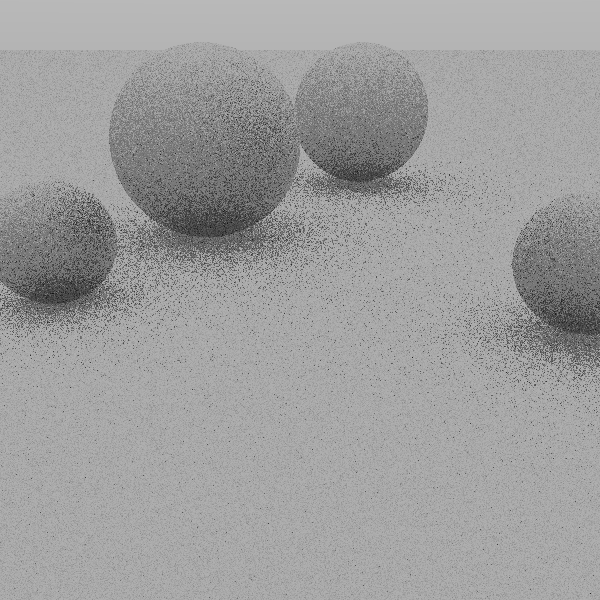
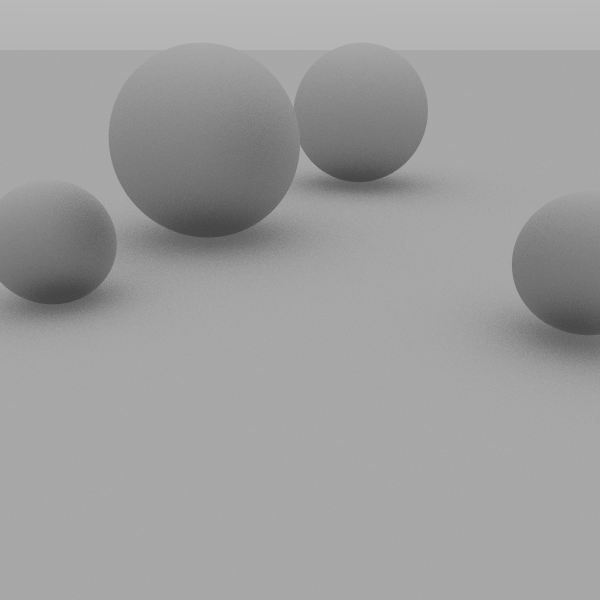
added new camera and new shading, but shading needs rework.

Changed region(s): [[0.0, 0.09, 0.78, 0.57], [0.75, 0.33, 1.0, 0.66]]

diff --git a/src/core/Main.java b/src/core/Main.java
@@ -2,6 +2,7 @@ package core;
 
 import core.gui.GUI;
 import core.world.camera.Camera;
+import core.world.light.Light;
 import core.world.math.VecMath;
 import core.world.ray.Ray;
 import core.world.ray.RayInfo;
@@ -24,6 +25,8 @@ public class Main
     public static Camera camera;
 
     public static OclusionObject oclusionObject;
+
+    public static Light globalLight;
 
     public static void main(String[] args)
     {
@@ -54,6 +57,7 @@ public class Main
 
     public static void rayTrace(Camera camera)
     {
+        int sampleCount = 100;
 
         for (int y = 0; y < HEIGHT; y++)
         {
@@ -62,10 +66,13 @@ public class Main
 
                 Vector3D color = new Vector3D(0, 0, 0);
 
+
+                /*
                 double u = (x) / ((double) (WIDTH));
                 double v = (y) / ((double) (HEIGHT));
 
                 Ray ray = camera.getRay(u, v);
+                */
 
                 //ray.dir = Camera.projectToView(new Vector3D(x, y, 1));
                 //System.out.println(myRay.dir);
@@ -83,11 +90,30 @@ public class Main
                 }
                 */
 
+                Vector3D deColor = new Vector3D(0, 0, 0);
 
-                color = VecMath.plusEqual(color, color(ray, oclusionObject, 0)); //intersection happens inside here.)
+                Ray ray;
+                for (int i = 0; i < sampleCount; i++)
+                {
+                    double u = (x + Math.random()) / ((double) (WIDTH));
+                    double v = (y + Math.random()) / ((double) (HEIGHT));
+                    ray = camera.getRay(u, v);
+                    if (i == 0) //performance increase
+                        deColor = deColor(ray, oclusionObject, globalLight);
+                    color = VecMath.plusEqual(color, color(ray, oclusionObject, 0));
+                }
+
+                color = VecMath.divideEqual(color, sampleCount);
 
 
-                color = VecMath.divideEqual(color, 1);
+                //color = VecMath.multiply(deColor, color);
+
+                //color = VecMath.plusEqual(color, color(ray, oclusionObject, 0)); //intersection happens inside here.)
+                //color = deColor(ray, oclusionObject, globalLight);
+                //color = color(ray, oclusionObject, 0);
+
+
+                //color = VecMath.divideEqual(color, sampleCount);
                 //square root for gamma correction also known as gamma 2
                 color = new Vector3D(Math.sqrt(color.getX()), Math.sqrt(color.getY()), Math.sqrt(color.getZ()));
                 int ir = ((int) (255.99 * color.getX()));
@@ -106,6 +132,12 @@ public class Main
 
     public static void createAndAddObjects()
     {
+
+        globalLight = new Light();
+        globalLight.position = new Vector3D(10, 10, -2);
+        globalLight.ambience = 0.2;
+
+
         Sphere mySphere_1 = new Sphere(new Vector3D(-4, 1.0, 0), 1.0, new Material(MaterialType.LAMBERTIAN, new Vector3D(Math.random(), Math.random(), Math.random())));
         Sphere mySphere_4 = new Sphere(new Vector3D(-2, 2, -4.0), 2.0, new Material(MaterialType.LAMBERTIAN, new Vector3D(0.5, 0, 0)));
         Sphere mySphere_2 = new Sphere(new Vector3D(1.8, 2, -10.0), 2.0, new Material(MaterialType.LAMBERTIAN, new Vector3D(0.6, 0.4, 0.4)));
@@ -161,6 +193,32 @@ public class Main
     }
 
 
+    public static Vector3D interColor(RayInfo rayInfo, Light light)
+    {
+        Vector3D c;
+        double normalDotLightpos = rayInfo.normal.dotProduct(light.position.normalize());
+        double ambiance = light.ambience + ((1.0 - light.ambience) * Math.max(0.0, normalDotLightpos));
+        c = rayInfo.material.albedo.scalarMultiply(ambiance);
+        return c;
+    }
+
+    public static Vector3D deColor(Ray ray, IShape mainShape, Light light)
+    {
+        double EPSILON = 0.000000000001;
+        RayInfo rayInfo = mainShape.hit(ray, EPSILON, Double.MAX_VALUE); //maybe implement a min and max intersection distance.
+        if (rayInfo.didIntersect)
+        {
+            return interColor(rayInfo, light);
+        } else //else, lerp to create a gradient background.
+        {
+            Vector3D unitVectorDirection = VecMath.getUnitVector(ray.dir.normalize());
+            double multiplier = 0.9;
+            double t = multiplier * -unitVectorDirection.getY() + 1.0;
+            return lerp(new Vector3D(1.0, 1.0, 1.0), Globals.bkgColor, t);
+        }
+    }
+
+
     public static Vector3D color(Ray ray, IShape mainShape, int recursionDepth)
     {
         double EPSILON = 0.000000000001;
@@ -180,8 +238,7 @@ public class Main
             */
 
 
-
-            if (recursionDepth < 100) //bigger recursion depth better quality
+            if (recursionDepth < 1000) //bigger recursion depth better quality
             {
                 Vector3D target = rayInfo.point.add(rayInfo.normal).add(VecMath.random_in_unit_sphere());
                 return color(new Ray(rayInfo.point, target.subtract(rayInfo.point)), mainShape, recursionDepth + 1).scalarMultiply(0.5);
@@ -189,8 +246,6 @@ public class Main
             {
                 return new Vector3D(0, 0, 0);
             }
-
-
 
 
             //check normalization, normalizing the vector here might improve shading?

diff --git a/src/core/world/light/Light.java b/src/core/world/light/Light.java
@@ -1,43 +1,28 @@
 package core.world.light;
 
-import core.world.ray.Ray;
-import core.world.shapes.IShape;
 import org.apache.commons.math3.geometry.euclidean.threed.Vector3D;
 
-import static core.Globals.*;
-
 /**
- * Created by Fred on 25-04-2017.
+ * Created by Gabriel Jadderson on 19-05-2017.
  */
 public class Light
 {
-    private Vector3D position;
-    public double fov;
+    public Vector3D position;
+    public double ambience;
+    public Vector3D specular;
+    public Vector3D diffuse;
 
-
-    public void Begin()
+    public Light()
     {
-        for (int y = 0; y < HEIGHT; y++)
-        {
-            for (int x = 0; x < WIDTH; x++)
-            {
-                //Vector3D startPos = new Vector3D(0, 200, 100);
-                //Vector3D direction = startPos.subtract(new Vector3D((double) x , (double) y , -1));
+        this(Vector3D.ZERO, 0, Vector3D.ZERO, Vector3D.ZERO);
+    }
 
-                Vector3D startPos = new Vector3D(0, 2, 0);
-                Vector3D direction = new Vector3D((double) x / WIDTH * VIEW_WIDTH - VIEW_WIDTH / 2.0, (double) y / HEIGHT * VIEW_HEIGHT - VIEW_HEIGHT / 2.0, 1);
 
-                Ray myRay = new Ray(startPos, direction);
-                //background.setPaint(x, y, background.color);
-                for (IShape shape : shapeList)
-                {
-                    if (shape.intersects(myRay, 1).didIntersect)
-                    {
-                        //System.out.println(shape.getDepth());
-                        //shape.getMaterial().setPaint(x, y, shape.getMaterial().getColor().calcDepth(shape.getDepth()));
-                    }
-                }
-            }
-        }
+    public Light(Vector3D position, double ambience, Vector3D specular, Vector3D diffuse)
+    {
+        this.position = position;
+        this.ambience = ambience;
+        this.specular = specular;
+        this.diffuse = diffuse;
     }
 }

diff --git a/src/core/world/shapes/Sphere.java b/src/core/world/shapes/Sphere.java
@@ -1,6 +1,7 @@
 package core.world.shapes;
 
 import core.Globals;
+import core.world.light.Light;
 import core.world.math.VecMath;
 import core.world.ray.Ray;
 import core.world.ray.RayInfo;
@@ -163,6 +164,10 @@ public class Sphere implements IShape
         //material.color.shade(new Vector3D(-5, -1, 1.5), new Vector3D(-1, 6, 1.00), 0.126, 1.7473);
         //material.albedo = VecMath.plusEqual(material.albedo, Material.initShading(ray, this, 0));
         Globals.outputRenderedImage.getRaster().setPixel(x, y, material.getRGBArray());
+    }
+
+    public void shade(Ray ray, RayInfo rayInfo, Light light) {
+
     }
 
 }

diff --git a/src/core/world/ray/RayInfo.java b/src/core/world/ray/RayInfo.java
@@ -17,12 +17,14 @@ public class RayInfo
     public Vector3D normal; //normal of the hit
     public double t; //distance
     public Material material; //mat of shape
+    public Vector3D shapePosition;
 
     public RayInfo()
     {
         didIntersect = false;
         point = Vector3D.ZERO;
         normal = Vector3D.ZERO;
+        shapePosition = Vector3D.ZERO;
         t = 0;
         material = new Material(MaterialType.LAMBERTIAN, new Vector3D(0, 0, 0));
     }
